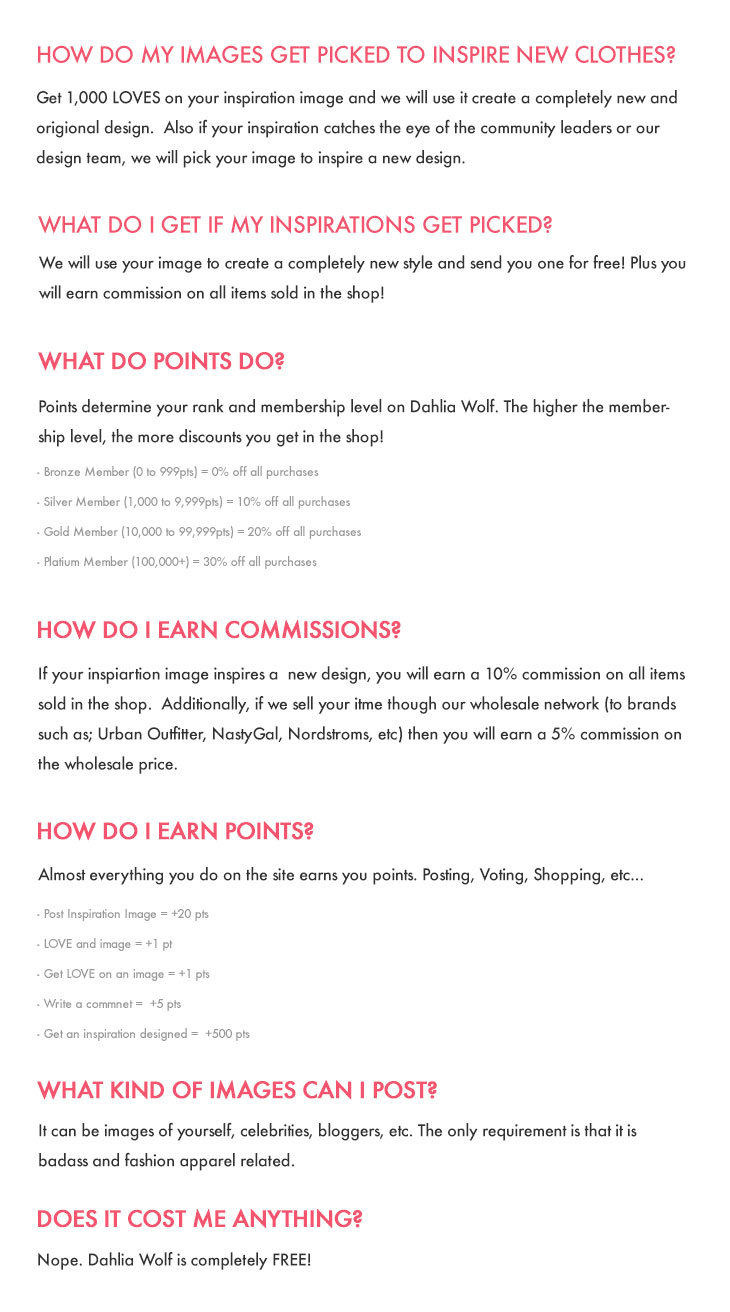
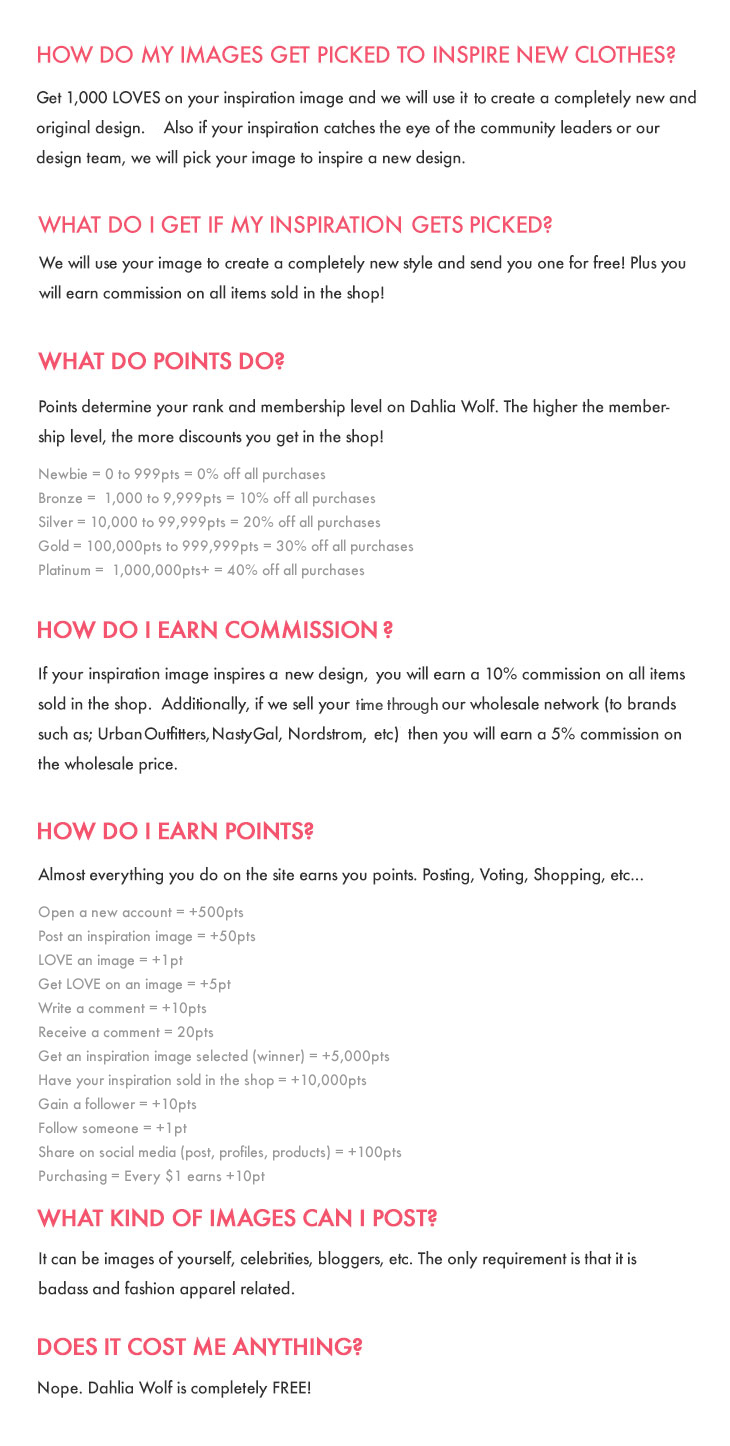
faqs change

diff --git a/faqs.php b/faqs.php
@@ -13,7 +13,7 @@ include "header.php";
 
 		<h1>FAQs</h1>
 		        
-<h3>BELOW IS A LIST OF FREQUESTLY ASKED QUESTIONS ABOUT DAHLIA WOLF</h3>
+<h3>BELOW IS A LIST OF FREQUENTLY ASKED QUESTIONS ABOUT DAHLIA WOLF</h3>
 <br />
 <div style="background-color:rgb(241, 241, 241); width:770px;margin:0px; padding:20px;">
 
@@ -31,7 +31,7 @@ include "header.php";
 
 
 <div style="background-color:rgb(230, 230, 230);; text-align:center; width:730px;margin:20px; padding:20px;">
-<h3>WHAT IF I HAVE MORE QESTIONS?</h3></br>
+<h3>WHAT IF I HAVE MORE QUESTIONS?</h3></br>
 <p>If you don't find the answer you need on the FAQ page, there are many other ways you can contact us. If you have other questions or concerns about anything, please email us to help [at] dahliawolf.com</p>
 </div>
 </br>
@@ -303,7 +303,7 @@ We do not sell or give away images you upload to our site to anybody. The images
 <li><a name="70"> ► What copyright rules do you have for the images posted on your site?</a></br>
 If you upload a look of yourself or own the rights to the photograph, that's great! However, if you are posting images that do not belong to you, please make sure you credit the photographer or the site you got the image from. However, we cannot guarantee you that this will prevent a copyright challenge, but let's start by giving credit to where it is due. Also, if there is a copyright problem with the image, we may request you to delete the post, or we may delete it at our own discretion.</li></br>
 
-<li><a name="71"> ► What happens if I accidently violated a copyright rule with a post I made on your site?</a></br>
+<li><a name="71"> ► What happens if I accidently  violated a copyright rule with a post I made on your site?</a></br>
 Under our terms of service, by utilizing our site, "you have agreed not post content or take any action on Dahlia Wolf that infringes or violates someone else's rights or otherwise violates the law." If you do so, you acknowledge and agree that all risk arising out of your access to and use of this site content burdens on you.</li></br>
 
 <li><a name="72"> ► What do I do if I am a copyright owner and see that my copyright has been violated on your site?</a></br>
